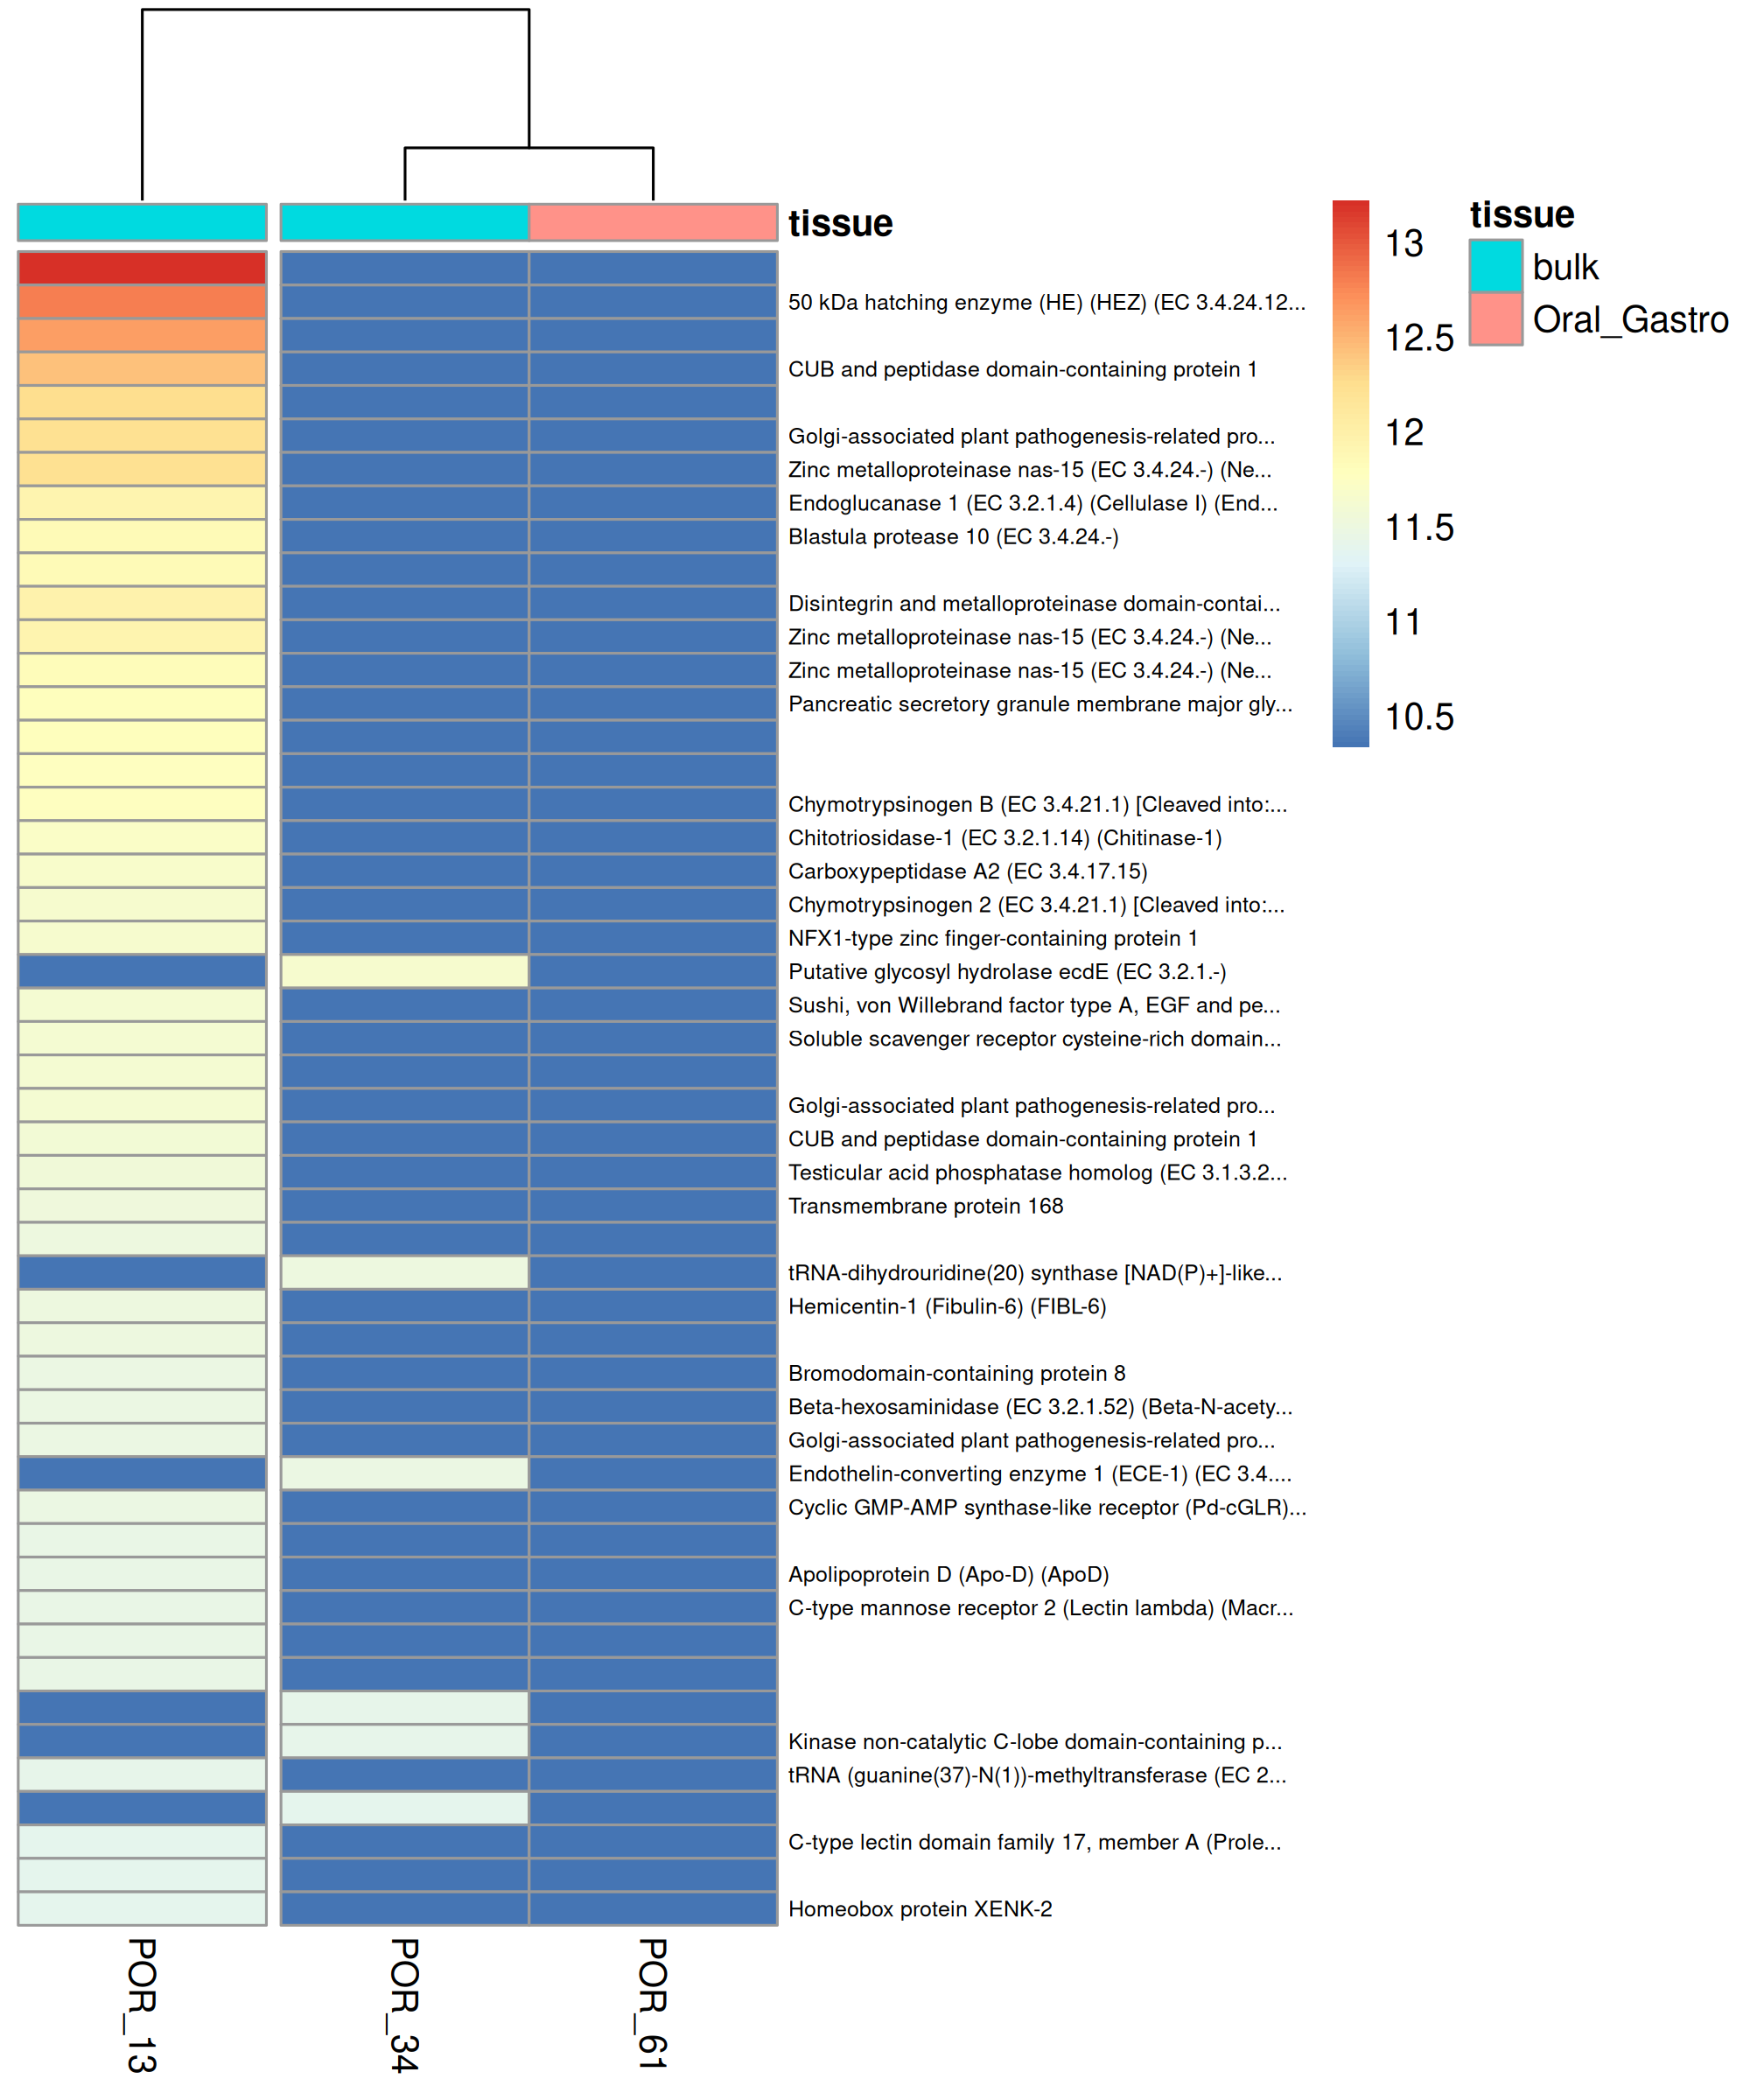
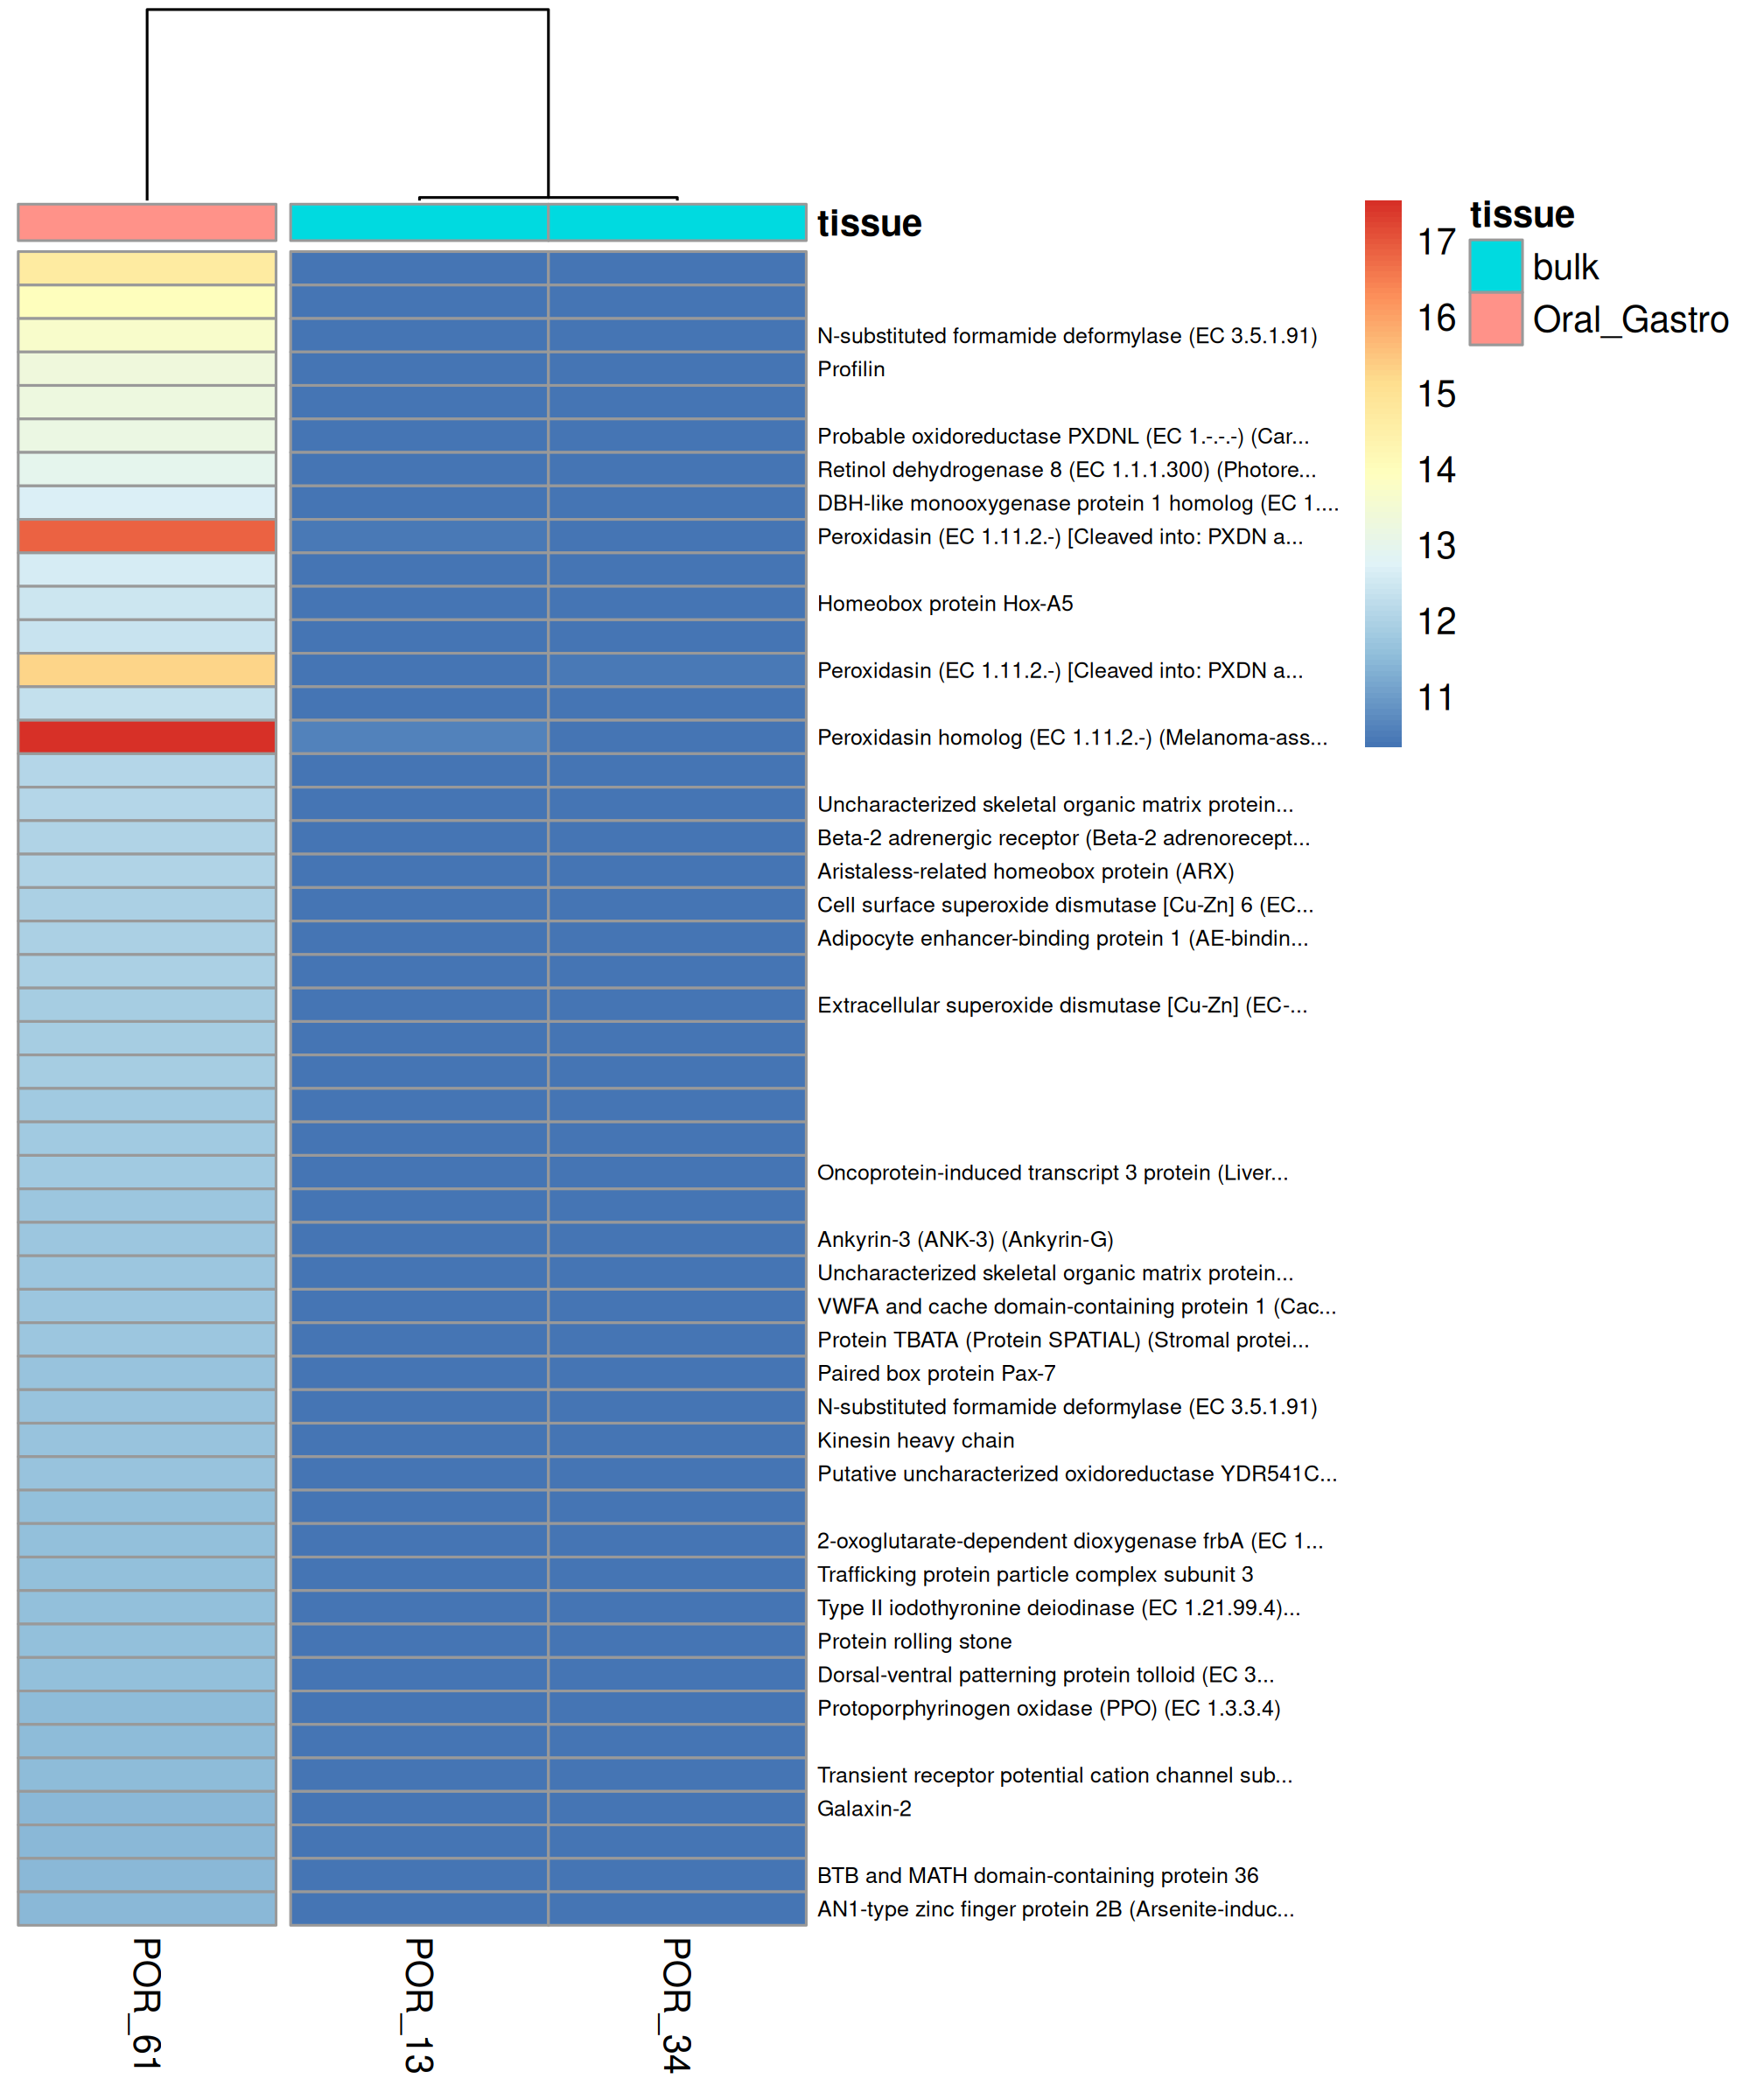
fix issue with heatmap labelling

diff --git a/DE_Analysis.md b/DE_Analysis.md
@@ -3,28 +3,42 @@ RNA-seq Analysis
 Zoe Dellaert
 2026-06-02
 
-- [RNA-seq Analysis](#rna-seq-analysis)
-- [Preproccessing of bulk RNA-seq data](#preproccessing-of-bulk-rna-seq-data)
-  - [0. Setup species-specific parameters](#0-setup-species-specific-parameters)
+- [Preproccessing of bulk RNA-seq
+  data](#preproccessing-of-bulk-rna-seq-data)
+  - [0. Setup species-specific
+    parameters](#0-setup-species-specific-parameters)
   - [1. Read in raw count data](#1-read-in-raw-count-data)
-  - [2. Extract metadata from sample names](#2-extract-metadata-from-sample-names)
-  - [3. Remove outliers, if identified](#3-remove-outliers-if-identified)
-  - [4. pOverA filtering to reduce dataset](#4-povera-filtering-to-reduce-dataset)
-    - [Note to self: maybe replace this with treatment-specific filtering. To get genes expressed only at one timepoint in one treatment](#note-to-self-maybe-replace-this-with-treatment-specific-filtering-to-get-genes-expressed-only-at-one-timepoint-in-one-treatment)
-  - [5. Create DESeq object and run DESeq2](#5-create-deseq-object-and-run-deseq2)
-  - [6. VST-Transforming count data for visualization](#6-vst-transforming-count-data-for-visualization)
-  - [7. Visualize sample-sample relationships](#7-visualize-sample-sample-relationships)
+  - [2. Extract metadata from sample
+    names](#2-extract-metadata-from-sample-names)
+  - [3. Remove outliers, if
+    identified](#3-remove-outliers-if-identified)
+  - [4. pOverA filtering to reduce
+    dataset](#4-povera-filtering-to-reduce-dataset)
+    - [Note to self: maybe replace this with treatment-specific
+      filtering. To get genes expressed only at one timepoint in one
+      treatment](#note-to-self-maybe-replace-this-with-treatment-specific-filtering-to-get-genes-expressed-only-at-one-timepoint-in-one-treatment)
+  - [5. Create DESeq object and run
+    DESeq2](#5-create-deseq-object-and-run-deseq2)
+  - [6. VST-Transforming count data for
+    visualization](#6-vst-transforming-count-data-for-visualization)
+  - [7. Visualize sample-sample
+    relationships](#7-visualize-sample-sample-relationships)
     - [PCA](#pca)
     - [Hierarchical Clustering](#hierarchical-clustering)
     - [Heatmap of variable genes](#heatmap-of-variable-genes)
   - [Preprocessing Summary](#preprocessing-summary)
 - [DE Analysis](#de-analysis)
-  - [1. Extract results for bulk vs. OralGastro contrast](#1-extract-results-for-bulk-vsoralgastro-contrast)
-    - [MA Plots with Log2 Fold Change Transform Comparisons](#ma-plots-with-log2-fold-change-transform-comparisons)
-  - [2. Extract results for adjusted p-value \< 0.05 with LFC transform of choice (or none)](#2-extract-results-for-adjusted-p-value--005-with-lfc-transform-of-choice-or-none)
+  - [1. Extract results for bulk vs. OralGastro
+    contrast](#1-extract-results-for-bulk-vs-oralgastro-contrast)
+    - [MA Plots with Log2 Fold Change Transform
+      Comparisons](#ma-plots-with-log2-fold-change-transform-comparisons)
+  - [2. Extract results for adjusted p-value \< 0.05 with LFC transform
+    of choice (or
+    none)](#2-extract-results-for-adjusted-p-value--005-with-lfc-transform-of-choice-or-none)
     - [Join with annotation data](#join-with-annotation-data)
     - [Save csvs](#save-csvs)
-  - [3. Heatmap of differentially expressed genes, with Swissprot annotation](#3-heatmap-of-differentially-expressed-genes-with-swissprot-annotation)
+  - [3. Heatmap of differentially expressed genes, with Swissprot
+    annotation](#3-heatmap-of-differentially-expressed-genes-with-swissprot-annotation)
   - [Appendix](#appendix)
 
 # Preproccessing of bulk RNA-seq data
@@ -345,8 +359,8 @@ plotMA(resAsh, xlim=xlim, ylim=ylim, main="ashr")
 #res <- resLFC #resAsh
 
 resOrdered <- res[order(res$pvalue),] # save differentially expressed genes
-
-DE_05 <- as.data.frame(resOrdered) %>% filter(padj < 0.05 & abs(log2FoldChange) > 1)
+ 
+DE_05 <- as.data.frame(resOrdered) %>% filter(padj < 0.05)#& abs(log2FoldChange) > 1)
 DE_05_Up <- DE_05 %>% filter(log2FoldChange > 0) #Higher in Oral Gastro
 DE_05_Down <- DE_05 %>% filter(log2FoldChange < 0) #Lower in Oral Gastro
 
@@ -460,6 +474,9 @@ heat1 <- pheatmap(vst_mat[topDEGenes, ],
 ![](./output_RNA/reports/DE_Analysis_files/figure-gfm/heatmap-swissprot-lfc-1.png)<!-- -->
 
 ``` r
+#view most significantly differentially expressed genes in order by LFC with labels
+topDEGenes <- order(res$log2FoldChange, decreasing =  TRUE)[1:50]
+
 heat2 <- pheatmap(vst_mat[topDEGenes, ],
          cluster_rows=FALSE, show_rownames=TRUE,
          cluster_cols=TRUE, cutree_cols = 2,
@@ -489,5 +506,6 @@ dev.off()
 
 ## Appendix
 
-To knit: rmarkdown::render(“DE_Analysis.Rmd”, output_dir =
-“../output_RNA/reports/”)
+To knit:
+
+rmarkdown::render(“scripts/DE_Analysis.Rmd”, output_dir = “./”)